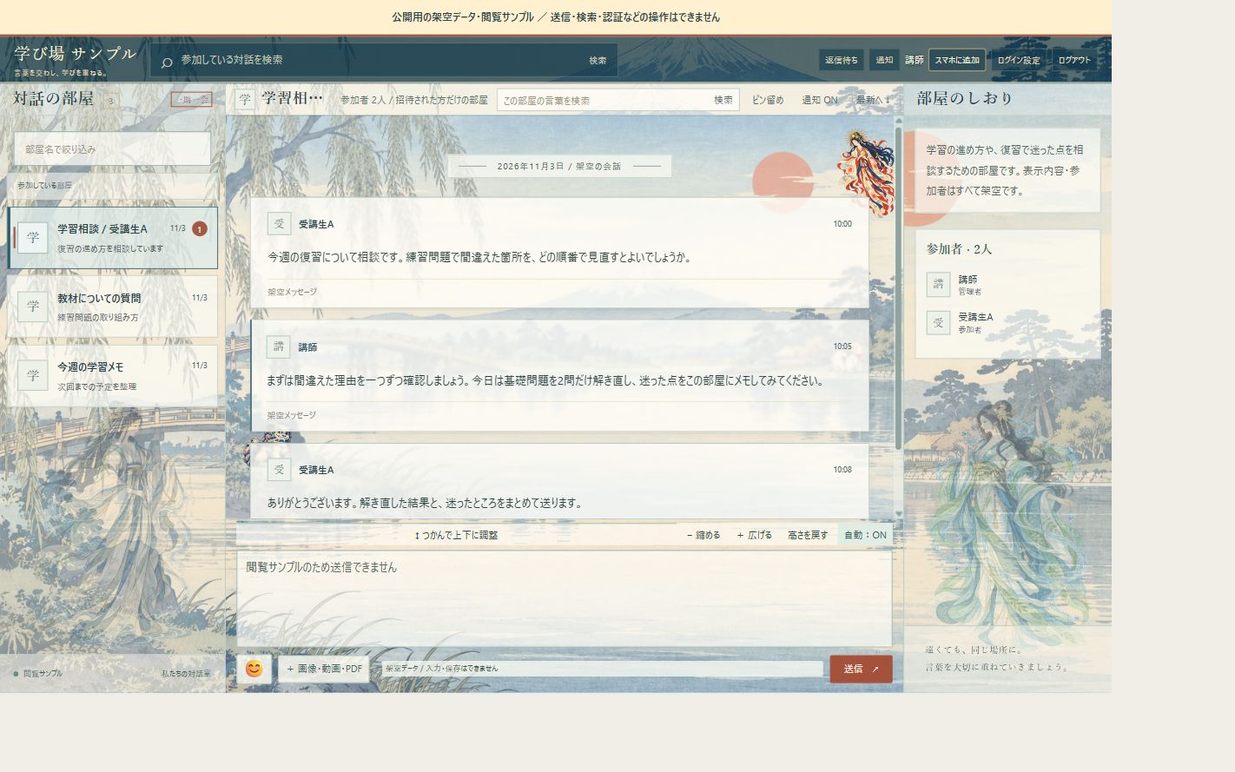
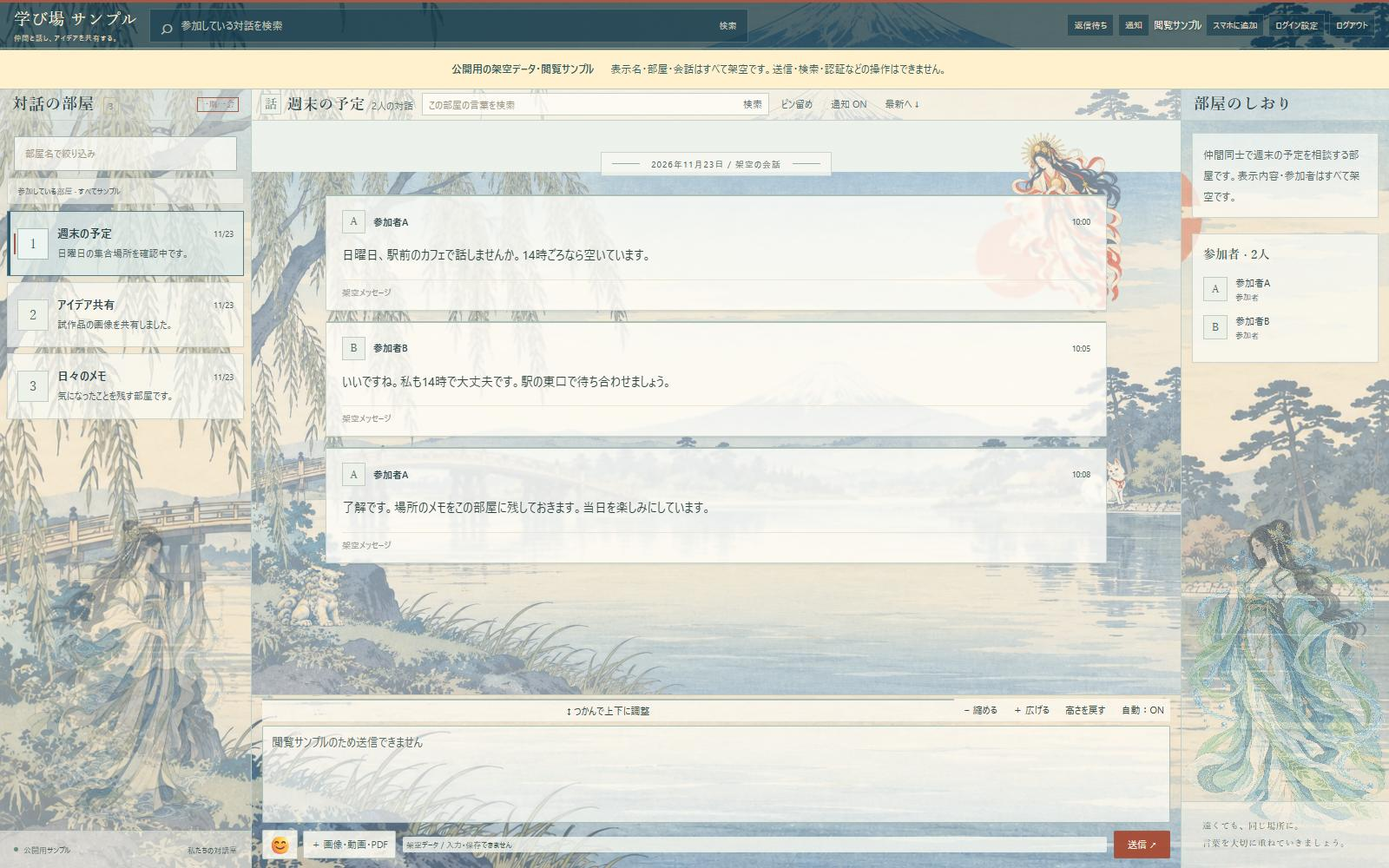
Update Manabiba portfolio copy and peer chat sample

diff --git a/index.html b/index.html
@@ -2,8 +2,8 @@
 <html lang="ja">
 <head>
   <meta charset="utf-8"><meta name="viewport" content="width=device-width, initial-scale=1">
-  <meta name="description" content="坂本陽介の制作・開発記録。受講生向けチャット、業務自動化、Job Radar、水鏡相場録、MT5移植・売買ルールのEA化。Web改修の有償実務と自社制作を分け、実装・検証の範囲を紹介します。">
-  <meta name="portfolio-version" content="ai-product-in-use-20261104">
+  <meta name="description" content="坂本陽介の制作・開発記録。仲間とのやり取りに使っているチャット「学び場」、業務自動化、Job Radar、水鏡相場録、MT5移植・売買ルールのEA化。実際の使い方と開発の記録を紹介します。">
+  <meta name="portfolio-version" content="portfolio-20261123">
   <title>坂本陽介 | Web開発・業務自動化のポートフォリオ</title>
   <link rel="stylesheet" href="./assets/portfolio.css">
 </head>
@@ -11,11 +11,11 @@
 <a class="skip" href="#main">本文へ移動</a>
 <header class="wrap header"><a class="brand" href="./">YOSUKE SAKAMOTO</a><nav class="nav" aria-label="メインナビゲーション"><a href="#screens">画面サンプル</a><a href="#works">制作実績</a><a href="#demos">動くデモ</a><a href="#career">経歴・開発の進め方</a></nav></header>
 <main id="main" class="wrap">
-  <section class="hero" aria-labelledby="title"><div><p class="eyebrow">PORTFOLIO / WEB DEVELOPMENT &amp; AUTOMATION</p><h1 id="title">自社で使うチャットや、<br>業務ツールを作っています。</h1><p class="lead">受講生とのやり取り、記事の公開、FXの過去検証。自分の仕事で必要だったものを、AIエージェントを使って開発しています。認証やデータ保存、処理が止まった場合の扱いも決め、画面を操作して確認し、使いにくいところを直しています。</p><p class="name">坂本 陽介 <span>YOSUKE SAKAMOTO</span></p></div><aside class="hero-aside"><p><strong>営業・事業運営 20年以上</strong><br>宝飾営業、法人運営、FX取引・指導</p><p><strong>相場に関わって約23年</strong><br>独立後は約13年、自己資金で取引と事業を継続</p><p><strong>自社制作・運用</strong><br>チャット、業務自動化、取引支援ツールほか</p><p class="note">自社で使う制作物と、公開用デモを分けて掲載しています。</p><a href="./engineering/product-work/">実装と検証の詳細を読む →</a></aside></section>
-  <div class="strip"><span>制作記録・実装・検証記録をもとに構成</span><span>文章更新：2026.11.10 ／ 検証日は制作物ごとに記載</span></div>
-<section id="screens" class="section" aria-labelledby="screens-title"><div class="section-head"><h2 id="screens-title">画面で見る制作物</h2><p>学び場、写楽、FX過去検証ツール「水鏡相場録」。<br>実際の会話・利用者情報・取引記録を含まないサンプルです。</p></div><div class="screen-grid"><figure class="screen-sample "><a href="./assets/chat-sample.jpg" target="_blank" rel="noreferrer" aria-label="受講生向けチャット 学び場の画像を大きく開く"><img src="./assets/chat-sample.jpg" width="1422" height="889" loading="lazy" decoding="async" alt="受講生向けチャット 学び場の公開用サンプル画面"></a><figcaption><strong>受講生向けチャット 学び場</strong><span>元のHTML・CSSに、架空の3部屋と会話を載せた閲覧サンプル。送信・検索・認証の操作はできません。</span><a href="./assets/chat-sample.jpg" target="_blank" rel="noreferrer">画像を大きく見る ↗</a></figcaption></figure><figure class="screen-sample "><a href="./assets/capture-sample.png" target="_blank" rel="noreferrer" aria-label="画面キャプチャ・注釈編集 写楽の画像を大きく開く"><img src="./assets/capture-sample.png" width="1280" height="850" loading="lazy" decoding="async" alt="画面キャプチャ・注釈編集 写楽の公開用サンプル画面"></a><figcaption><strong>画面キャプチャ・注釈編集 写楽</strong><span>実際のアプリの描画機能を使った注釈編集プレビュー。画像と履歴は合成サンプルです。</span><a href="./assets/capture-sample.png" target="_blank" rel="noreferrer">画像を大きく見る ↗</a></figcaption></figure><figure class="screen-sample screen-wide"><a href="./assets/mizukagami-sample.jpg" target="_blank" rel="noreferrer" aria-label="水鏡相場録の画像を大きく開く"><img src="./assets/mizukagami-sample.jpg" width="2352" height="1112" loading="lazy" decoding="async" alt="水鏡相場録の合成データによる4画面チャートリプレイ"></a><figcaption><strong>水鏡相場録 / FX過去検証ツール</strong><span>独自生成の合成データを使ったデモ画面です。実際の取引や運用成績を示すものではありません。</span><a href="./assets/mizukagami-sample.jpg" target="_blank" rel="noreferrer">画像を大きく見る ↗</a></figcaption></figure></div></section>
+  <section class="hero" aria-labelledby="title"><div><p class="eyebrow">PORTFOLIO / WEB DEVELOPMENT &amp; AUTOMATION</p><h1 id="title">自社で使うチャットや、<br>業務ツールを作っています。</h1><p class="lead">仲間とのやり取り、記事の公開、FXの過去検証。自分の仕事で必要だったものを、AIエージェントを使って開発しています。認証やデータ保存、処理が止まった場合の扱いも決め、画面を操作して確認し、使いにくいところを直しています。</p><p class="name">坂本 陽介 <span>YOSUKE SAKAMOTO</span></p></div><aside class="hero-aside"><p><strong>営業・事業運営 20年以上</strong><br>宝飾営業、法人運営、FX取引</p><p><strong>相場に関わって約23年</strong><br>独立後は約13年、自己資金で取引と事業を継続</p><p><strong>自社制作・運用</strong><br>チャット、業務自動化、取引支援ツールほか</p><p class="note">自社で使う制作物と、公開用デモを分けて掲載しています。</p><a href="./engineering/product-work/">実装と検証の詳細を読む →</a></aside></section>
+  <div class="strip"><span>制作記録・実装・検証記録をもとに構成</span><span>文章更新：2026.11.23 ／ 検証日は制作物ごとに記載</span></div>
+<section id="screens" class="section" aria-labelledby="screens-title"><div class="section-head"><h2 id="screens-title">画面で見る制作物</h2><p>学び場、写楽、FX過去検証ツール「水鏡相場録」。<br>実際の会話・利用者情報・取引記録を含まないサンプルです。</p></div><div class="screen-grid"><figure class="screen-sample "><a href="./assets/chat-sample.jpg?v=20261123" target="_blank" rel="noreferrer" aria-label="学び場のチャット画面を大きく開く"><img src="./assets/chat-sample.jpg?v=20261123" width="1600" height="1000" loading="lazy" decoding="async" alt="学び場の画面例。部屋の一覧と、仲間同士の会話が並ぶ画面"></a><figcaption><strong>学び場</strong><span>部屋名、表示名、会話には架空の例を使っています。</span><a href="./assets/chat-sample.jpg?v=20261123" target="_blank" rel="noreferrer">画像を大きく見る ↗</a></figcaption></figure><figure class="screen-sample "><a href="./assets/capture-sample.png" target="_blank" rel="noreferrer" aria-label="画面キャプチャ・注釈編集 写楽の画像を大きく開く"><img src="./assets/capture-sample.png" width="1280" height="850" loading="lazy" decoding="async" alt="画面キャプチャ・注釈編集 写楽の公開用サンプル画面"></a><figcaption><strong>画面キャプチャ・注釈編集 写楽</strong><span>実際のアプリの描画機能を使った注釈編集プレビュー。画像と履歴は合成サンプルです。</span><a href="./assets/capture-sample.png" target="_blank" rel="noreferrer">画像を大きく見る ↗</a></figcaption></figure><figure class="screen-sample screen-wide"><a href="./assets/mizukagami-sample.jpg" target="_blank" rel="noreferrer" aria-label="水鏡相場録の画像を大きく開く"><img src="./assets/mizukagami-sample.jpg" width="2352" height="1112" loading="lazy" decoding="async" alt="水鏡相場録の合成データによる4画面チャートリプレイ"></a><figcaption><strong>水鏡相場録 / FX過去検証ツール</strong><span>独自生成の合成データを使ったデモ画面です。実際の取引や運用成績を示すものではありません。</span><a href="./assets/mizukagami-sample.jpg" target="_blank" rel="noreferrer">画像を大きく見る ↗</a></figcaption></figure></div></section>
   <section id="works" class="section" aria-labelledby="works-title"><div class="section-head"><h2 id="works-title">最近の主な制作実績</h2><p>自社の業務で使うために制作したものです。<br>公開できる範囲で、背景と実装内容を紹介します。</p></div>
-    <article class="work"><div class="work-copy"><div class="work-title"><span class="num">01</span><span class="status">自社で利用・改善中</span></div><h3>受講生向けチャットシステム</h3><p>受講生とのやり取りを管理するために制作し、実際に使っています。招待、部屋ごとの閲覧権限、検索、未読・返信待ちの管理を実装。PCが止まっている間も一時受付し、復帰後に取り込む経路を整えています。</p><p class="tech">Python / FastAPI / SQLite / JavaScript / Workers・D1・R2</p><a class="text-link" href="./engineering/product-work/#chat">認証・権限・保存処理について <span>↗</span></a></div><div class="diagram" role="img" aria-label="チャットの構成図。招待・認証を通して部屋ごとの閲覧権限を判定し、会話を保存する。PC停止中は一時受付し、復帰後に取り込む。"><p class="diagram-label"><span>CHAT / 構成図</span><span>実データは非公開</span></p><div class="flow"><div class="node">招待・認証<small>利用者を確認</small></div><span class="arrow">→</span><div class="node">部屋の権限<small>閲覧・投稿を判定</small></div><span class="arrow">→</span><div class="node">会話を保存<small>検索・未読管理</small></div></div><div class="split"><div><strong>PC停止中</strong>一時受付へ切り替える</div><div><strong>復帰後</strong>保存確認後に受領を返す</div></div><p class="diagram-note">パスワード変更時のセッション失効や、権限外のアクセスをテスト。</p></div></article>
+    <article class="work"><div class="work-copy"><div class="work-title"><span class="num">01</span><span class="status">自社で利用・改善中</span></div><h3>学び場</h3><p>仲間とのやり取りに使っているチャットです。話題ごとに部屋を分け、後から会話を探したり、返信待ちの投稿を確認したりできます。招待制で、閲覧できる部屋は参加者ごとに設定しています。PCが止まっている間も一時受付し、復帰後に取り込む経路を整えています。</p><p class="tech">Python / FastAPI / SQLite / JavaScript / Workers・D1・R2</p><a class="text-link" href="./engineering/product-work/#chat">認証・権限・保存処理について <span>↗</span></a></div><div class="diagram" role="img" aria-label="チャットの構成図。招待・認証を通して部屋ごとの閲覧権限を判定し、会話を保存する。PC停止中は一時受付し、復帰後に取り込む。"><p class="diagram-label"><span>CHAT / 構成図</span><span>実データは非公開</span></p><div class="flow"><div class="node">招待・認証<small>利用者を確認</small></div><span class="arrow">→</span><div class="node">部屋の権限<small>閲覧・投稿を判定</small></div><span class="arrow">→</span><div class="node">会話を保存<small>検索・未読管理</small></div></div><div class="split"><div><strong>PC停止中</strong>一時受付へ切り替える</div><div><strong>復帰後</strong>保存確認後に受領を返す</div></div><p class="diagram-note">パスワード変更時のセッション失効や、権限外のアクセスをテスト。</p></div></article>
     <article class="work"><div class="work-copy"><div class="work-title"><span class="num">02</span><span class="status">自社で運用</span></div><h3>記事公開・通知・履歴の自動化</h3><p>完成した画像を保存した後の、公開と確認の手間を減らしたくて作りました。保存をきっかけに日付別の記事公開、Windows通知、履歴確認までつなげています。同じ画像の二重処理や、別画像による意図しない上書きも防ぎます。</p><p class="tech">Node.js / Python / PowerShell / C#</p><a class="text-link" href="./engineering/product-work/#automation">公開フローと停止時の扱い <span>↗</span></a></div><div class="diagram warm" role="img" aria-label="記事公開の構成図。保存完了を確認し、重複を検査してから公開・通知する。受付、処理中、停止、公開済みを区別する。"><p class="diagram-label"><span>PUBLISHING / 処理の流れ</span><span>自社業務</span></p><div class="flow"><div class="node">画像を保存<small>保存の完了を待つ</small></div><span class="arrow">→</span><div class="node">重複を確認<small>上書きを防ぐ</small></div><span class="arrow">→</span><div class="node">公開・通知<small>履歴を残す</small></div></div><div class="queue-row"><span>途中で止まった処理</span><span>公開済みと分けて表示</span></div><div class="queue-row"><span>日々の確認</span><span>停止理由・公開履歴を見る</span></div></div></article>
     <article class="work"><div class="work-copy"><div class="work-title"><span class="num">03</span><span class="status">本人が利用・改善中</span></div><h3>Job Radar — 求人収集・条件整理</h3><p>求人を探すたびに、同じ募集や勤務条件を何度も確認していました。Gmailの求人通知と公開求人APIから取り込み、重複、希望条件、応募状況を整理するローカルアプリを制作。本文を取得できない場合は、確認待ちとして残します。</p><p class="tech">Python / SQLite / Gmail API・OAuth / HTML・CSS・JavaScript</p><a class="text-link" href="./engineering/product-work/#radar">取込・更新・判定の仕組み <span>↗</span></a></div><div class="diagram green" role="img" aria-label="求人整理の構成図。通知と公開APIから取込、重複照合、条件ごとの整理を行う。本文未確認、取得失敗、募集終了を区別する。"><p class="diagram-label"><span>JOB RADAR / 確認状態の管理</span><span>求人・経歴はローカル保存</span></p><div class="flow"><div class="node">通知・API<small>読取専用で取込</small></div><span class="arrow">→</span><div class="node">重複を照合<small>同じ求人を整理</small></div><span class="arrow">→</span><div class="node">条件で絞る<small>確認理由を残す</small></div></div><div class="queue-row"><span>通知に書かれた情報</span><span>募集本文の確認と区別</span></div><div class="queue-row"><span>取得失敗</span><span>募集終了とは別の状態</span></div></div></article>
     <article class="work"><div class="work-copy"><div class="work-title"><span class="num">04</span><span class="status test">移植・テスター検証中</span></div><h3>MT5移植・売買ルールのEA化</h3><p>自分で組み立て、検証してきた売買手法をプログラムで扱う取り組みです。MT4からMT5への取引支援EAの移植、指標の調整、売買ルールの自動化を進めています。MQL5とPythonの別実装を照合し、エントリーや決済の違いを調べています。</p><p class="tech">MQL5 / Python / MT5 Strategy Tester</p><a class="text-link" href="./engineering/product-work/#trading">移植と検証の範囲を見る <span>↗</span></a></div><div class="diagram" role="img" aria-label="取引検証の構成図。同じ売買ルールをMQL5とPythonで実装し、時刻・価格・初期条件を揃えて結果を照合する。"><p class="diagram-label"><span>TRADING TOOLS / 比較検証</span><span>実運用成績の表示ではありません</span></p><div class="flow"><div class="node">売買ルール<small>条件を明確にする</small></div><span class="arrow">→</span><div class="node">MQL5<small>テスターで実行</small></div></div><div class="split"><div><strong>Pythonの独立実装</strong>同じ条件の結果と照合</div><div><strong>差分を確認</strong>時刻・価格・決済の仕様</div></div><p class="diagram-note">チャートを操作して売買判断を練習する「水鏡相場録」は、下の独立した制作実績で紹介しています。</p></div></article>
@@ -23,7 +23,7 @@
   </section>
   <section class="section" aria-labelledby="recent-title"><div class="section-head"><h2 id="recent-title">ほかにも、使いながら作っています。</h2><p>データを取得して表示するアプリや、<br>日常の作業に使うWindowsツールも制作しました。</p></div><div class="more-grid"><article class="small-work"><span class="status">読取・表示を確認</span><h3>YouTubeデータ分析アプリ</h3><p>公式APIから取得したデータを、7日・28日などの期間で比較。欠測とゼロを分けて表示し、CSVとあわせて動画を振り返ります。OAuth接続、ローカル保存、自動取得を実装しています。</p><p class="tech">Python / tkinter / YouTube Data・Analytics API / OAuth</p><a class="text-link" href="./engineering/product-work/#analytics">分析方法と確認範囲 <span>↗</span></a></article><article class="small-work"><span class="status">本人が利用・改善中</span><h3>画面キャプチャ・注釈編集ツール</h3><p>範囲を選んで撮影し、注釈を入れて保存するWindowsアプリを作り、画面で説明する作業に使っています。Undo・Redo、録画、履歴からのファイルドラッグまで実装し、使っていて気になったリサイズ時の重さも修正しました。</p><p class="tech">C# / WinForms / .NET Framework / FFmpeg</p><a class="text-link" href="./engineering/product-work/#capture">実装機能と実機確認 <span>↗</span></a></article></div></section>
   <section id="demos" class="section" aria-labelledby="demos-title"><div class="section-head"><h2 id="demos-title">その場で試せるデモ</h2><p>上の自社システムとは別に、公開用のアプリとサンプルを用意しています。実際の利用者データは含みません。</p></div><div class="demos"><article class="demo"><h3>Relay / 業務依頼管理</h3><p>依頼の保存、更新競合、二重送信、変更履歴。閲覧はログイン不要。本人用データの保存にはChatGPTログインが必要です。</p><div class="links"><a href="https://sakamoto-relay-ops.sukekyu82.chatgpt.site/" target="_blank" rel="noreferrer">アプリを試す ↗</a><a href="./engineering/relay/">設計・検証記録 →</a></div></article><article class="demo"><h3>余白 / カフェ予約</h3><p>架空店舗の予約、本人の予約一覧、取消。閲覧はログイン不要。予約の保存にはChatGPTログインが必要です。</p><a href="https://yohaku-cafe-reservation.sukekyu82.chatgpt.site" target="_blank" rel="noreferrer">予約アプリを試す ↗</a></article><article class="demo"><h3>FX取引分析</h3><p>サンプル取引の損益・勝率・最大ドローダウンを期間別に比較。CSVはブラウザ内で処理し、サーバーへ送りません。</p><a href="./projects/fx-trade-analytics/">サンプルで分析する →</a></article><article class="demo"><h3>求人条件の整理</h3><p>匿名サンプルで条件の絞り込み、判定理由、応募済み表示を操作できます。Job Radar本体の収集・同期機能は含まない旧版の公開デモです。</p><a href="./projects/remote-job-triage-demo/">条件を絞ってみる →</a></article></div></section>
-  <section id="career" class="career" aria-labelledby="career-title"><div><p class="eyebrow">EXPERIENCE</p><h2 id="career-title">これまでの仕事と、<br>今の開発。</h2></div><div><h3>宝飾営業から、FX事業と自社開発へ</h3><p>宝飾の営業を約8年経験し、外資系ではトップの成績を出してきました。ダミアーニでは大阪旗艦店の副店長と本社営業を担当しました。独立後は、自分で組み立てたFXの手法を検証し、自己資金で取引を続け、その収入を生活の基盤として現在13年目です。法人運営と受講生への指導も続けています。水鏡相場録やチャット、記事公開の仕組みは、その仕事の中で必要になって作ったものです。</p><p>一人で仕事を続けて約13年になります。AIエージェントと開発するようになって、欲しかった道具が実際に動く楽しさを知りました。今度はその楽しさを、仲間と共有したい。宝飾の仕事でチームと働いていた頃のように、意見を交わしながら一緒に作りたいと思っています。</p><p>AIが担う仕事が増えるほど、何を解決するかを決めるための現場経験が大事になると私は考えています。年齢や業界の違いだけでなく、何を判断し、何を作ってきたかを見ていただきたいです。私も相手の専門性から学び、試して違うと分かれば考えを変えます。互いの経験を持ち寄れるチームで、次の仕事に取り組みたいです。</p></div></section>
+  <section id="career" class="career" aria-labelledby="career-title"><div><p class="eyebrow">EXPERIENCE</p><h2 id="career-title">これまでの仕事と、<br>今の開発。</h2></div><div><h3>宝飾営業から、FX事業と自社開発へ</h3><p>宝飾の営業を約8年経験し、外資系ではトップの成績を出してきました。ダミアーニでは大阪旗艦店の副店長と本社営業を担当しました。独立後は、自分で組み立てたFXの手法を検証し、自己資金で取引を続け、その収入を生活の基盤として現在13年目です。水鏡相場録やチャット、記事公開の仕組みは、その仕事の中で必要になって作ったものです。</p><p>一人で仕事を続けて約13年になります。AIエージェントと開発するようになって、欲しかった道具が実際に動く楽しさを知りました。今度はその楽しさを、仲間と共有したい。宝飾の仕事でチームと働いていた頃のように、意見を交わしながら一緒に作りたいと思っています。</p><p>AIが担う仕事が増えるほど、何を解決するかを決めるための現場経験が大事になると私は考えています。年齢や業界の違いだけでなく、何を判断し、何を作ってきたかを見ていただきたいです。私も相手の専門性から学び、試して違うと分かれば考えを変えます。互いの経験を持ち寄れるチームで、次の仕事に取り組みたいです。</p></div></section>
   <aside class="ai-note" aria-labelledby="ai-title"><h3 id="ai-title">AIを使った開発について</h3><p>CodexやClaude Codeに、作りたい機能、実際の使い方、起きてほしくない動きを伝えて開発しています。コードの実装とテストにはAIの支援を受けています。出てきた画面を操作し、保存されたデータやテスト結果も確認して、合っていないところを直しています。</p><p class="note">掲載実績のAI活用は、設計・実装・検証の支援です。LLM APIを製品に組み込む開発や、モデルの学習・調整の実績は含めていません。</p></aside>
 </main>
 <footer class="wrap footer"><p>坂本 陽介 ／ 制作・開発の記録<br>自社システムの利用者情報・原本コードは非公開です。</p><a href="https://github.com/yousukesakamoto007/yosuke-sakamoto-ai-portfolio" target="_blank" rel="noreferrer">このポートフォリオのGitHub ↗</a></footer>

diff --git a/engineering/product-work/index.html b/engineering/product-work/index.html
@@ -1,12 +1,12 @@
-<!doctype html><html lang="ja"><head><meta charset="utf-8"><meta name="viewport" content="width=device-width, initial-scale=1"><meta name="description" content="自社チャット、記事公開自動化、Job Radar、水鏡相場録、MT5移植ほかの実装・検証記録。坂本陽介のポートフォリオ。"><title>実装と検証の記録 | 坂本陽介</title><link rel="stylesheet" href="../../assets/portfolio.css"></head><body>
+<!doctype html><html lang="ja"><head><meta charset="utf-8"><meta name="viewport" content="width=device-width, initial-scale=1"><meta name="description" content="仲間とのやり取りに使っているチャット「学び場」、記事公開自動化、Job Radar、水鏡相場録、MT5移植ほかの実装・検証記録。坂本陽介のポートフォリオ。"><title>実装と検証の記録 | 坂本陽介</title><link rel="stylesheet" href="../../assets/portfolio.css"></head><body>
 <a class="skip" href="#main">本文へ移動</a><header class="wrap header"><a class="brand" href="../../">YOSUKE SAKAMOTO</a><nav class="nav" aria-label="メインナビゲーション"><a href="../../#works">制作実績</a><a href="../../#demos">動くデモ</a><a href="../../#career">経歴</a></nav></header>
-<main id="main" class="wrap"><a class="back" href="../../">← ポートフォリオへ</a><section class="case-hero"><p class="eyebrow">PROJECT NOTES / 2026.11.10</p><h1>何を作り、<br>どこまで確かめたか。</h1><p class="lead">自社での制作記録、実装、検証記録から、公開できる内容をまとめました。必要な機能や制約は自分の業務から決め、設計・実装・テストにはAIエージェントの支援を受けています。それぞれの制作物について、確認できた範囲と現在の段階を記載しています。</p></section><nav class="jump" aria-label="制作物の詳細へ"><a href="#chat">01 チャット</a><a href="#automation">02 業務自動化</a><a href="#radar">03 Job Radar</a><a href="#trading">04 MT5・EA</a><a href="#mizukagami">05 水鏡相場録</a><a href="#analytics">06 動画分析</a><a href="#capture">07 キャプチャ</a></nav>
-<article id="chat" class="case"><div class="case-head"><span class="num">01</span><h2>受講生向けチャットシステム</h2><span class="status">自社で利用・改善中</span></div><figure class="screen-sample case-sample"><a href="../../assets/chat-sample.jpg" target="_blank" rel="noreferrer" aria-label="受講生向けチャット 学び場の画像を大きく開く"><img src="../../assets/chat-sample.jpg" width="1422" height="889" loading="lazy" decoding="async" alt="受講生向けチャット 学び場の公開用サンプル画面"></a><figcaption><strong>受講生向けチャット 学び場</strong><span>元のHTML・CSSに、架空の3部屋と会話を載せた閲覧サンプル。送信・検索・認証の操作はできません。</span><a href="../../assets/chat-sample.jpg" target="_blank" rel="noreferrer">画像を大きく見る ↗</a></figcaption></figure><div class="case-grid"><div><h3>作った背景</h3><p>受講生との会話を、必要な部屋で確認できるようにしたくて制作しました。投稿できるだけでなく、誰に見えるのか、返信を待っている会話はどれか、PCが止まったときにどうするかも決める必要がありました。</p><h3>実装したこと</h3><ul><li>招待・ログイン、部屋ごとの閲覧権限、添付、検索、未読・返信待ちの管理。</li><li>投稿の編集・削除、セッション管理、二段階認証。</li><li>PC停止中の一時受付と、復帰後の取り込み。保存が確認できてから受領を返す処理。</li></ul><p class="tech">Python / FastAPI / SQLite / HTML・CSS・JavaScript / Cloudflare Workers・D1・R2</p></div><div><h3>確認したこと</h3><ul><li>パスワード変更による全セッションの失効。期限と一度だけ利用できる再設定処理。</li><li>権限のない部屋へのアクセスを拒否する認証・権限テスト。</li><li>合成データによる、一時受付 → サーバー → 保存 → 受領確認の統合テスト。</li><li>通常画面と一時受付画面について、PC幅・スマートフォン幅の表示を確認。</li></ul><p class="boundary"><strong>現在の段階</strong><br>受講生とのやり取りに使っています。利用しながら、認証・権限や運用面の確認・改善を続けています。</p><p class="evidence">根拠：認証・中継の実装、認証テスト、合成データ統合テスト、画面確認記録。原本と利用者データは非公開です。</p></div></div></article>
-<article id="automation" class="case"><div class="case-head"><span class="num">02</span><h2>記事公開・通知・履歴の自動化</h2><span class="status">自社で運用</span></div><div class="case-grid"><div><h3>作った背景</h3><p>完成した画像を保存した後、記事にして公開し、公開できたかを確かめる作業がありました。毎回同じ操作をする部分をつなげ、途中で止まった場合も状況を追えるようにしています。</p><h3>実装したこと</h3><ul><li>フォルダーへの保存を監視し、保存が安定してから処理を開始。</li><li>日付別の記事公開、Windowsへの通知、公開履歴の記録。</li><li>重複受付を防ぎ、同日分の別画像による上書きを拒否。</li><li>受付・処理中・停止・公開済みを分けて表示し、復旧・保守の手順を整備。</li></ul><p class="tech">Node.js / Python / PowerShell / C#</p></div><div><h3>使いながら直していること</h3><p>公開できていないのに、終わったように見える状態を避けることを重視しています。処理の履歴や停止理由を確認し、復旧と監視の方法も含めて改善しています。</p><p>関連して、会員向け学習サイトの新着記事への導線や表示も改修。生成元の想定外の変更を検知する検査と、公開対象を確認するテストを整備しています。</p><p class="boundary"><strong>稼働条件</strong><br>Windowsへのログオンとネット接続が必要です。24時間無停止の運用や、あらゆる障害からの無人復旧を実現したという意味ではありません。</p><p class="evidence">根拠：運用README、保存・重複・状態管理の実装、復旧手順、依存ファイルの監査、運用再開の記録。記事本文や運用先は公開していません。</p></div></div></article>
+<main id="main" class="wrap"><a class="back" href="../../">← ポートフォリオへ</a><section class="case-hero"><p class="eyebrow">PROJECT NOTES / 2026.11.23</p><h1>何を作り、<br>どこまで確かめたか。</h1><p class="lead">自社での制作記録、実装、検証記録から、公開できる内容をまとめました。必要な機能や制約は自分の業務から決め、設計・実装・テストにはAIエージェントの支援を受けています。それぞれの制作物について、確認できた範囲と現在の段階を記載しています。</p></section><nav class="jump" aria-label="制作物の詳細へ"><a href="#chat">01 学び場</a><a href="#automation">02 業務自動化</a><a href="#radar">03 Job Radar</a><a href="#trading">04 MT5・EA</a><a href="#mizukagami">05 水鏡相場録</a><a href="#analytics">06 動画分析</a><a href="#capture">07 キャプチャ</a></nav>
+<article id="chat" class="case"><div class="case-head"><span class="num">01</span><h2>学び場</h2><span class="status">自社で利用・改善中</span></div><figure class="screen-sample case-sample"><a href="../../assets/chat-sample.jpg?v=20261123" target="_blank" rel="noreferrer" aria-label="学び場のチャット画面を大きく開く"><img src="../../assets/chat-sample.jpg?v=20261123" width="1600" height="1000" loading="lazy" decoding="async" alt="学び場の画面例。部屋の一覧と、仲間同士の会話が並ぶ画面"></a><figcaption><strong>学び場</strong><span>部屋名、表示名、会話には架空の例を使っています。</span><a href="../../assets/chat-sample.jpg?v=20261123" target="_blank" rel="noreferrer">画像を大きく見る ↗</a></figcaption></figure><div class="case-grid"><div><h3>作った背景</h3><p>学び場は、仲間とのやり取りに使っているチャットです。前に話した内容を探しやすくしたくて、話題ごとに部屋を分けました。部屋ごとに参加者を決められ、あとで返事をしたい投稿も見つけられます。</p><h3>実装したこと</h3><ul><li>招待・ログイン、部屋ごとの閲覧権限、添付、検索、未読・返信待ちの管理。</li><li>投稿の編集・削除、セッション管理、二段階認証。</li><li>PC停止中の一時受付と、復帰後の取り込み。保存が確認できてから受領を返す処理。</li></ul><p class="tech">Python / FastAPI / SQLite / HTML・CSS・JavaScript / Cloudflare Workers・D1・R2</p></div><div><h3>確認したこと</h3><ul><li>パスワード変更による全セッションの失効。期限と一度だけ利用できる再設定処理。</li><li>権限のない部屋へのアクセスを拒否する認証・権限テスト。</li><li>合成データによる、一時受付 → サーバー → 保存 → 受領確認の統合テスト。</li><li>通常画面と一時受付画面について、PC幅・スマートフォン幅の表示を確認。</li></ul><p class="boundary"><strong>現在の段階</strong><br>普段から使いながら、招待した人がどの部屋を見られるか、PCの復帰後に投稿を取り込めるかを確認しています。</p><p class="evidence">根拠：認証・中継の実装、認証テスト、合成データ統合テスト、画面確認記録。原本と利用者データは非公開です。</p></div></div></article>
+<article id="automation" class="case"><div class="case-head"><span class="num">02</span><h2>記事公開・通知・履歴の自動化</h2><span class="status">自社で運用</span></div><div class="case-grid"><div><h3>作った背景</h3><p>完成した画像を保存した後、記事にして公開し、公開できたかを確かめる作業がありました。毎回同じ操作をする部分をつなげ、途中で止まった場合も状況を追えるようにしています。</p><h3>実装したこと</h3><ul><li>フォルダーへの保存を監視し、保存が安定してから処理を開始。</li><li>日付別の記事公開、Windowsへの通知、公開履歴の記録。</li><li>重複受付を防ぎ、同日分の別画像による上書きを拒否。</li><li>受付・処理中・停止・公開済みを分けて表示し、復旧・保守の手順を整備。</li></ul><p class="tech">Node.js / Python / PowerShell / C#</p></div><div><h3>使いながら直していること</h3><p>公開できていないのに、終わったように見える状態を避けることを重視しています。処理の履歴や停止理由を確認し、復旧と監視の方法も含めて改善しています。</p><p>関連して、記事サイトでは、新着記事を見つけやすいようにリンクの位置と表示を見直しました。生成元の想定外の変更を検知する検査と、公開対象を確認するテストを整備しています。</p><p class="boundary"><strong>稼働条件</strong><br>Windowsへのログオンとネット接続が必要です。24時間無停止の運用や、あらゆる障害からの無人復旧を実現したという意味ではありません。</p><p class="evidence">根拠：運用README、保存・重複・状態管理の実装、復旧手順、依存ファイルの監査、運用再開の記録。記事本文や運用先は公開していません。</p></div></div></article>
 <article id="radar" class="case"><div class="case-head"><span class="num">03</span><h2>Job Radar — 求人収集・条件整理</h2><span class="status">本人が利用・改善中</span></div><div class="case-grid"><div><h3>作った背景</h3><p>気になる求人を開いても、勤務条件が合わなかったり、前に見た募集だったりする。その確認を何度も繰り返すのがきっかけでした。求人を取り込んでから、条件の確認と候補の整理までを一つにまとめています。</p><h3>実装したこと</h3><ul><li>読み取り専用OAuthによるGmail求人通知の取得と、公開求人APIからの取り込み。</li><li>処理済み識別子・URLによる重複防止、保存・応募済み・非表示の状態管理。</li><li>雇用形態・職種・勤務条件の絞り込み、経歴と条件を照合する整理。</li><li>日次更新と手動更新。通信間隔の共有と、更新の同時実行を防ぐロック。</li></ul><p class="tech">Python / SQLite / Gmail API / OAuth / HTML・CSS・JavaScript</p></div><div><h3>間違えないための扱い</h3><ul><li>求人通知の要約を、募集本文の確認済み情報にしない。</li><li>取得失敗と募集終了を分け、失敗時は前回の本文・成功日時を維持。</li><li>通知内の別求人から、会社名や条件を取り違えて流用しない。</li><li>実務の年数と自社制作の経験を分け、足りない条件を推測で埋めない。</li></ul><p class="boundary"><strong>収集の範囲</strong><br>Indeed・Greenの検索結果を無人巡回する仕組みではありません。通知・公開APIによる取り込みと、人がAIの調査支援も使って募集内容を確認する作業を分けています。自動更新にはPCとアプリの稼働が必要です。</p><p class="evidence">根拠：取込・更新CLI、通知解析、重複・勤務条件・状態保持のテスト、アプリREADME。求人・経歴・認証情報は非公開です。</p><a class="text-link" href="../../projects/remote-job-triage-demo/">条件整理の旧版サンプルを試す <span>→</span></a></div></div></article>
 <article id="trading" class="case"><div class="case-head"><span class="num">04</span><h2>MT5移植・売買ルールのEA化</h2><span class="status test">移植・テスター検証中</span></div><div class="case-grid"><div><h3>作った背景</h3><p>13年にわたり自己資金で取引を続ける中で、自分の手法を検証してきました。判断の条件をプログラムに落とし込み、同じルールで繰り返し確かめるため、MT5への移植やEA化に取り組んでいます。</p><h3>実装・検証したこと</h3><ul><li>MT4からMT5への取引支援EAの移植と、MQL5による売買ルールの実装。</li><li>Pythonの別実装と、時刻・価格・初期設定を揃えて結果を照合。</li><li>エントリー等の一致を確認し、決済の差を約定仕様まで調査。</li><li>MT5指標の表示調整と、再起動・時間足切替後の設定保持を実画面で確認。</li></ul><p class="tech">MQL5 / Python / MT5 Strategy Tester</p></div><div><h3>EAとは別に作った検証アプリ</h3><p>チャートを再生しながら売買判断を練習する「水鏡相場録」は、<a href="#mizukagami">独立した制作実績として下に紹介しています</a>。</p><p>過去の取引を集計する公開デモは、下のリンクからサンプルで操作できます。</p><p class="boundary"><strong>検証の範囲</strong><br>EAはストラテジーテスターとバックテストでの検証です。実口座での自動売買実績や、EAによる利益の実績を示すものではありません。照合で見つかった差や、未確認の設定変更も残っています。</p><p class="evidence">根拠：移植・比較検証の記録、MT5画面確認、ローカル検証アプリの検証記録。手法の詳細・口座・取引原本は非公開です。</p><a class="text-link" href="../../projects/fx-trade-analytics/">取引分析デモを試す <span>→</span></a></div></div></article>
 <article id="mizukagami" class="case"><div class="case-head"><span class="num">05</span><h2>水鏡相場録 / FX過去検証ツール</h2><span class="status">本人が利用・改善中</span></div><figure class="screen-sample case-sample"><a href="../../assets/mizukagami-sample.jpg" target="_blank" rel="noreferrer" aria-label="水鏡相場録の画像を大きく開く"><img src="../../assets/mizukagami-sample.jpg" width="2352" height="1112" loading="lazy" decoding="async" alt="水鏡相場録の合成データによる4画面チャートリプレイ"></a><figcaption><strong>水鏡相場録 / FX過去検証ツール</strong><span>独自生成の合成データを使ったデモ画面です。実際の取引や運用成績を示すものではありません。</span><a href="../../assets/mizukagami-sample.jpg" target="_blank" rel="noreferrer">画像を大きく見る ↗</a></figcaption></figure><div class="case-grid"><div><h3>作った背景</h3><p>過去のチャートを少しずつ進め、その時点で売買をどう判断するかを練習するアプリです。自分が検証で使う操作をまとめ、MT4・MT5の起動やログインに依存せず、途中の記録から再開できるようにしました。</p><h3>実装したこと</h3><ul><li>1分足・5分足・30分足・4時間足などを4画面で表示。1本・10本の足送りと巻戻し、速度を変えた再生、拡大・移動、指標の設定。</li><li>USDJPYの仮想売買。成行・指値・逆指値、損切り・利確、スプレッド・手数料を含む損益計算。</li><li>CSV・MT5形式TSVの取込と検査。IndexedDBへの保存、データ別の練習記録・画面設定、JSONでの保存・復元。</li><li>勝率・損益・資産推移・最大ドローダウンなどの集計、取引CSVと操作履歴の出力。</li></ul><p class="tech">JavaScript ES Modules / HTML・CSS / Canvas 2D / Node.js / IndexedDB・localStorage</p></div><div><h3>確認したこと</h3><ul><li>既知の1分足までで上位時間足を作り、未来の値を参照しないこと。</li><li>巻戻し後の取引再構成、仮想注文と約定、保存・再開、同じデータの照合。</li><li>CSVの不正値・重複、保存失敗、同時更新による競合、配布物からの非公開データ除外。</li><li>ローカル通常版と確認版の起動・保存先の分離。Chromeで4画面表示と再起動後の設定保持を確認。</li></ul><p class="boundary"><strong>現在の範囲</strong><br>USDJPYの1分OHLCに基づくシミュレーションです。ティック単位の値動き、変動スプレッド、複数建玉・複数通貨、実際の約定の再現は対象外です。本人用ローカル版を過去検証に使っています。本人限定のクラウド版も用意していますが、一般向けの販売実績としては掲載していません。</p><p class="evidence">根拠：リプレイ・注文・保存処理の実装、2026年10月30日の自動テスト160件成功記録とChrome確認記録。価格データ原本・練習記録・非公開コードは掲載していません。</p></div></div></article>
 <article id="analytics" class="case"><div class="case-head"><span class="num">06</span><h2>YouTubeデータ分析アプリ</h2><span class="status">読取・表示を確認</span></div><div class="case-grid"><div><h3>作ったもの</h3><p>動画の結果を継続して振り返るため、YouTube Data API・Analytics APIを読み取り専用で利用するデスクトップアプリを制作しました。</p><ul><li>7日・28日の比較、動画別分析、日別CSV、データ不足・欠測の表示。</li><li>OAuth接続、データのローカル保存、定期取得。認証情報はWindows DPAPIで保護。</li><li>CTRなどAPIで揃わない項目を扱うためのCSV取り込み。</li></ul><p class="tech">Python / tkinter / Pillow / YouTube Data・Analytics API / OAuth / Windows DPAPI</p></div><div><h3>確認と、これからの部分</h3><p>実際のOAuth接続で読み取りと画面表示を確認し、集計・表示などの自動テストを実施しました。画面の分析コメントは、条件分岐と定型文によるルールベースです。</p><p class="boundary"><strong>現在の範囲</strong><br>LLMによる分析・学習は実装していません。CTRのAPI自動取得、A/Bテストの自動勝者判定、収益分析も対象外です。実際のStudio CSVとの照合や、認証期限切れ後の再接続は継続確認が必要です。</p><p class="evidence">根拠：API接続・分析処理のコード、自動テスト、実アカウントでの表示確認記録。チャンネル名・視聴データ・認証情報は非公開です。</p></div></div></article>
 <article id="capture" class="case"><div class="case-head"><span class="num">07</span><h2>画面キャプチャ・注釈編集ツール</h2><span class="status">本人が利用・改善中</span></div><figure class="screen-sample case-sample"><a href="../../assets/capture-sample.png" target="_blank" rel="noreferrer" aria-label="画面キャプチャ・注釈編集 写楽の画像を大きく開く"><img src="../../assets/capture-sample.png" width="1280" height="850" loading="lazy" decoding="async" alt="画面キャプチャ・注釈編集 写楽の公開用サンプル画面"></a><figcaption><strong>画面キャプチャ・注釈編集 写楽</strong><span>実際のアプリの描画機能を使った注釈編集プレビュー。画像と履歴は合成サンプルです。</span><a href="../../assets/capture-sample.png" target="_blank" rel="noreferrer">画像を大きく見る ↗</a></figcaption></figure><div class="case-grid"><div><h3>作ったもの</h3><p>画面を撮って説明を添えるWindowsアプリを作り、実際のやり取りに使っています。実際に使いながら、ウィンドウを広げたときの重さや、画像を渡すときの操作を改善しました。</p><ul><li>範囲指定の撮影、PNG保存、注釈編集、Undo・Redo。</li><li>FFmpegによるMP4録画、撮影履歴からのファイルドラッグ。</li><li>背景の再利用と不要な再描画の削減によるリサイズ処理の修正。</li></ul><p class="tech">C# / .NET Framework / WinForms / FFmpeg / PowerShell</p></div><div><h3>確認したこと</h3><p>合成画像を使った保存・再読み込み、履歴からのドラッグ、Windows実機での無音録画を確認しました。配布ビルドの一致確認も行っています。</p><p class="boundary"><strong>未確認・未実装</strong><br>マイク録画、印刷、倍率の異なる複数ディスプレイでの動作は未確認です。保存した注釈を後から編集し直すための独自形式は、まだ実装していません。</p><p class="evidence">根拠：README、実装、検証記録、配布物の照合記録。実際に撮影した業務画面は公開していません。</p></div></div></article>
-<p class="subtle">文章更新：2026年11月10日。技術的な確認日は各制作物の根拠に記載しています。制作の原本・テスト記録をもとに、非公開情報を含まない要約を掲載しています。</p><p><a class="button" href="../../#demos">公開デモを見る →</a></p>
+<p class="subtle">文章更新：2026年11月23日。技術的な確認日は各制作物の根拠に記載しています。制作の原本・テスト記録をもとに、非公開情報を含まない要約を掲載しています。</p><p><a class="button" href="../../#demos">公開デモを見る →</a></p>
 </main><footer class="wrap footer"><p>坂本 陽介 ／ 制作・開発の記録</p><a href="../../">ポートフォリオに戻る ↑</a></footer></body></html>

diff --git a/README.md b/README.md
@@ -30,7 +30,7 @@ node --test projects/fx-trade-analytics/tests/analytics-core.test.js projects/re
 
 | 制作物 | 整理時点の状態 | 主な内容 |
 | --- | --- | --- |
-| 受講生向けチャット | 自社で利用・改善中 | 認証、部屋の権限、検索、PC停止中の一時受付 |
+| 学び場 | 利用・改善中 | 仲間とのやり取りに使っているチャット。招待、部屋ごとの閲覧権限、検索、PC停止中の一時受付 |
 | 記事公開の自動化 | 自社運用 | 保存検知、重複防止、公開、通知、履歴 |
 | Job Radar | 本人利用・改善中 | Gmail読取専用接続、公開API、条件整理、更新状態管理 |
 | MT5移植・EA | テスター検証中 | MQL5とPythonの別実装の比較、指標の設定保持 |
@@ -42,7 +42,7 @@ node --test projects/fx-trade-analytics/tests/analytics-core.test.js projects/re
 
 ## Public sample images
 
-- `assets/chat-sample.jpg`: 元の通常チャットHTML・CSSを使い、架空3部屋・講師・受講生A・架空3メッセージを専用スクリプトで表示したChromeキャプチャ。認証・通信・投稿機能を含まない閲覧サンプルです。
+- `assets/chat-sample.jpg`: 「学び場」のHTMLとCSSを使い、架空の3部屋と仲間同士の会話を表示して撮影した画面です。
 - `assets/capture-sample.png`: 実際のWindowsアプリの描画処理で、合成画像と注釈を画面外描画したプレビュー。既存の撮影履歴は使用していません。
 
 - `assets/mizukagami-sample.jpg`: 水鏡相場録の独立した合成デモをChromeで確認した画面。2026年10月29日の確認用画像から、口座・個人記録・非公開URLを含まないものを選びました。画面の資産や価格は実際の取引・運用成績ではありません。
